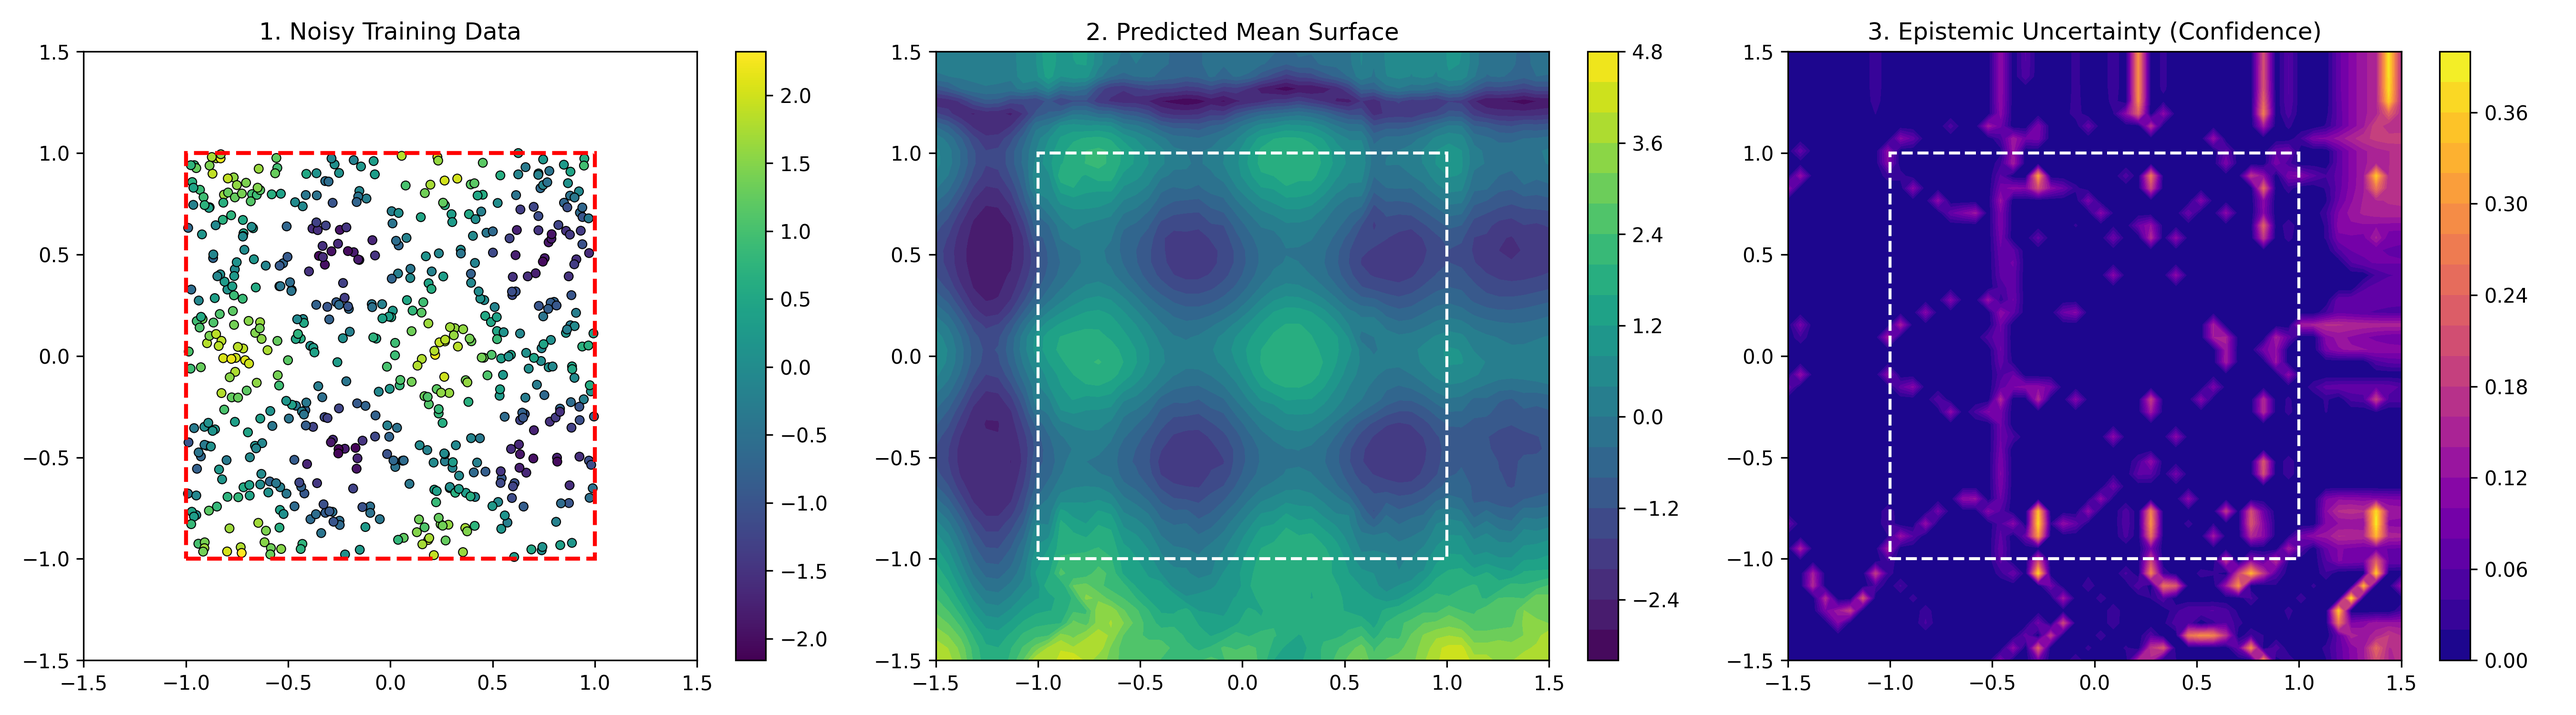
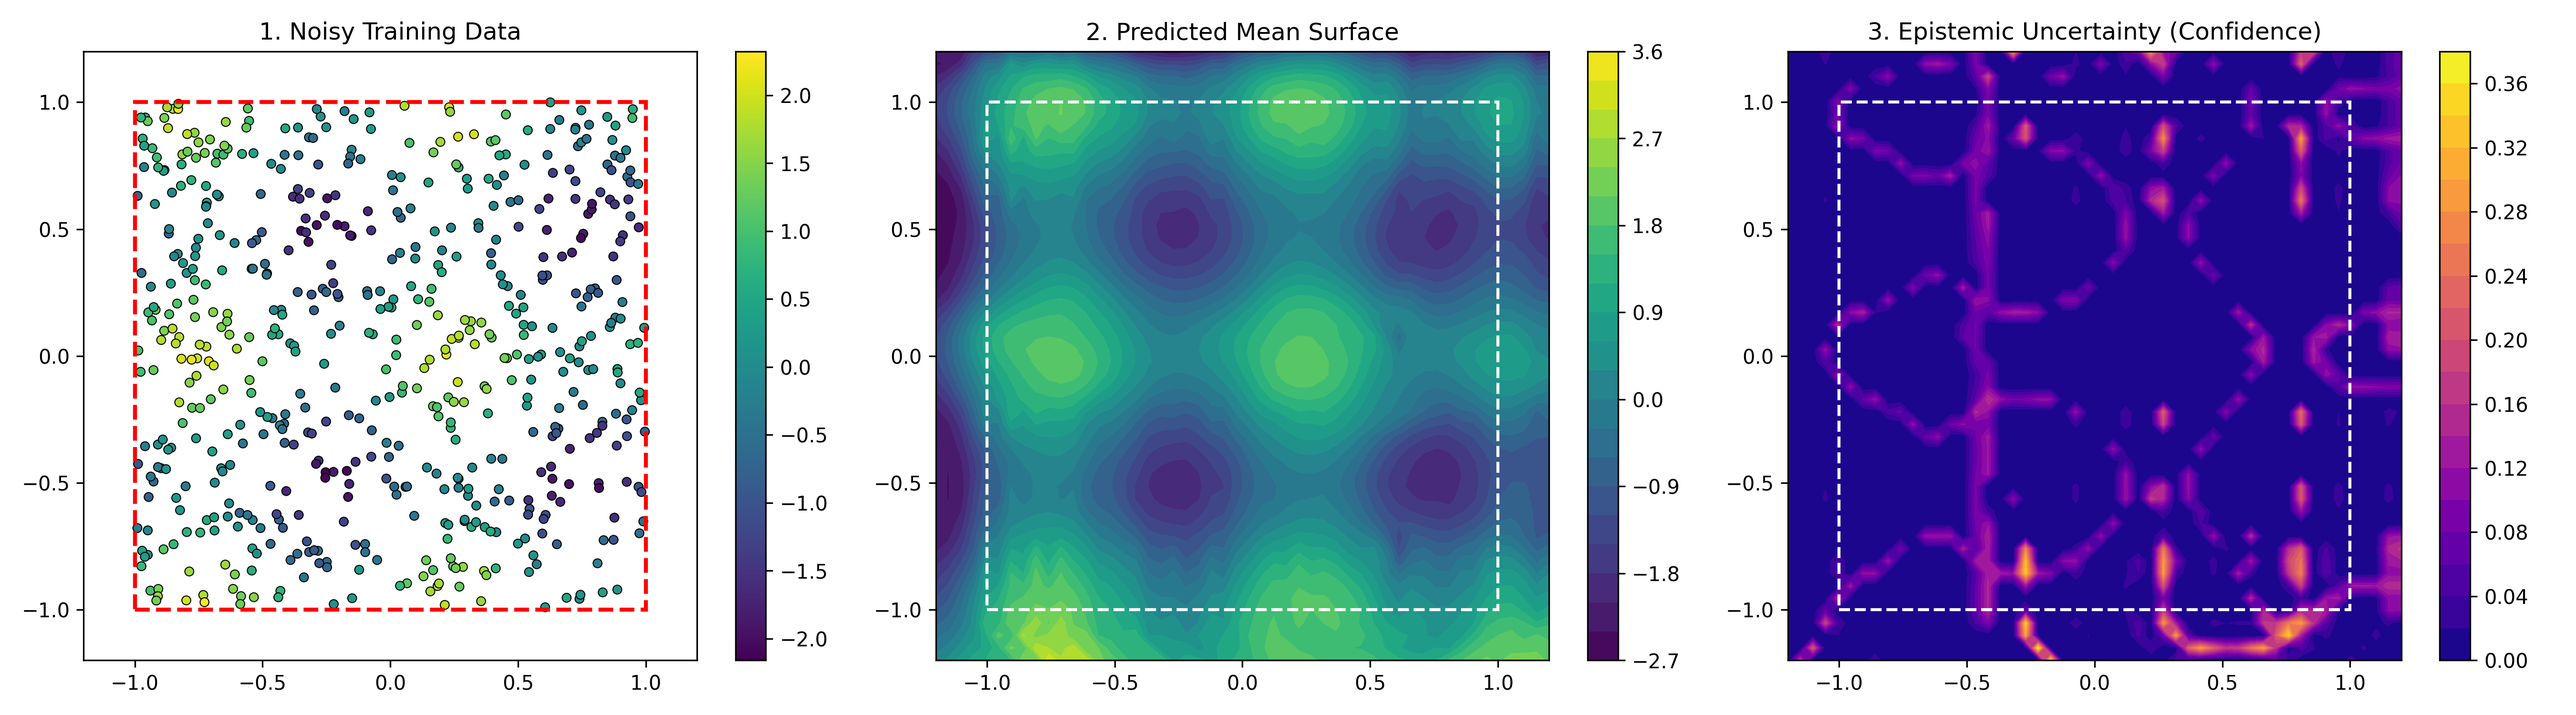
adjust plots

diff --git a/examples/surface_reconstruction.py b/examples/surface_reconstruction.py
@@ -62,11 +62,11 @@ def main():
     # 4. Visualization
     print("\nVisualizing Surface & Uncertainty...")
     
-    # Create grid that extends beyond training data [-1.5, 1.5]
+    # Create grid that extends beyond training data [-1.2, 1.2]
     # This allows us to see "Extrapolation Uncertainty"
     res = 50
-    x1_grid = np.linspace(-1.5, 1.5, res)
-    x2_grid = np.linspace(-1.5, 1.5, res)
+    x1_grid = np.linspace(-1.2, 1.2, res)
+    x2_grid = np.linspace(-1.2, 1.2, res)
     X1_mesh, X2_mesh = np.meshgrid(x1_grid, x2_grid)
     X_test_grid = np.column_stack([X1_mesh.ravel(), X2_mesh.ravel()])
 
@@ -83,8 +83,8 @@ def main():
     # Only plot data within the valid [-1, 1] box
     sc = axes[0].scatter(X_train[:,0], X_train[:,1], c=y_train.ravel(), cmap='viridis', s=20, edgecolors='k', linewidth=0.5)
     axes[0].set_title("1. Noisy Training Data")
-    axes[0].set_xlim(-1.5, 1.5)
-    axes[0].set_ylim(-1.5, 1.5)
+    axes[0].set_xlim(-1.2, 1.2)
+    axes[0].set_ylim(-1.2, 1.2)
     # Draw box to show training boundary
     rect = plt.Rectangle((-1, -1), 2, 2, fill=False, color='red', linestyle='--', linewidth=2)
     axes[0].add_patch(rect)
